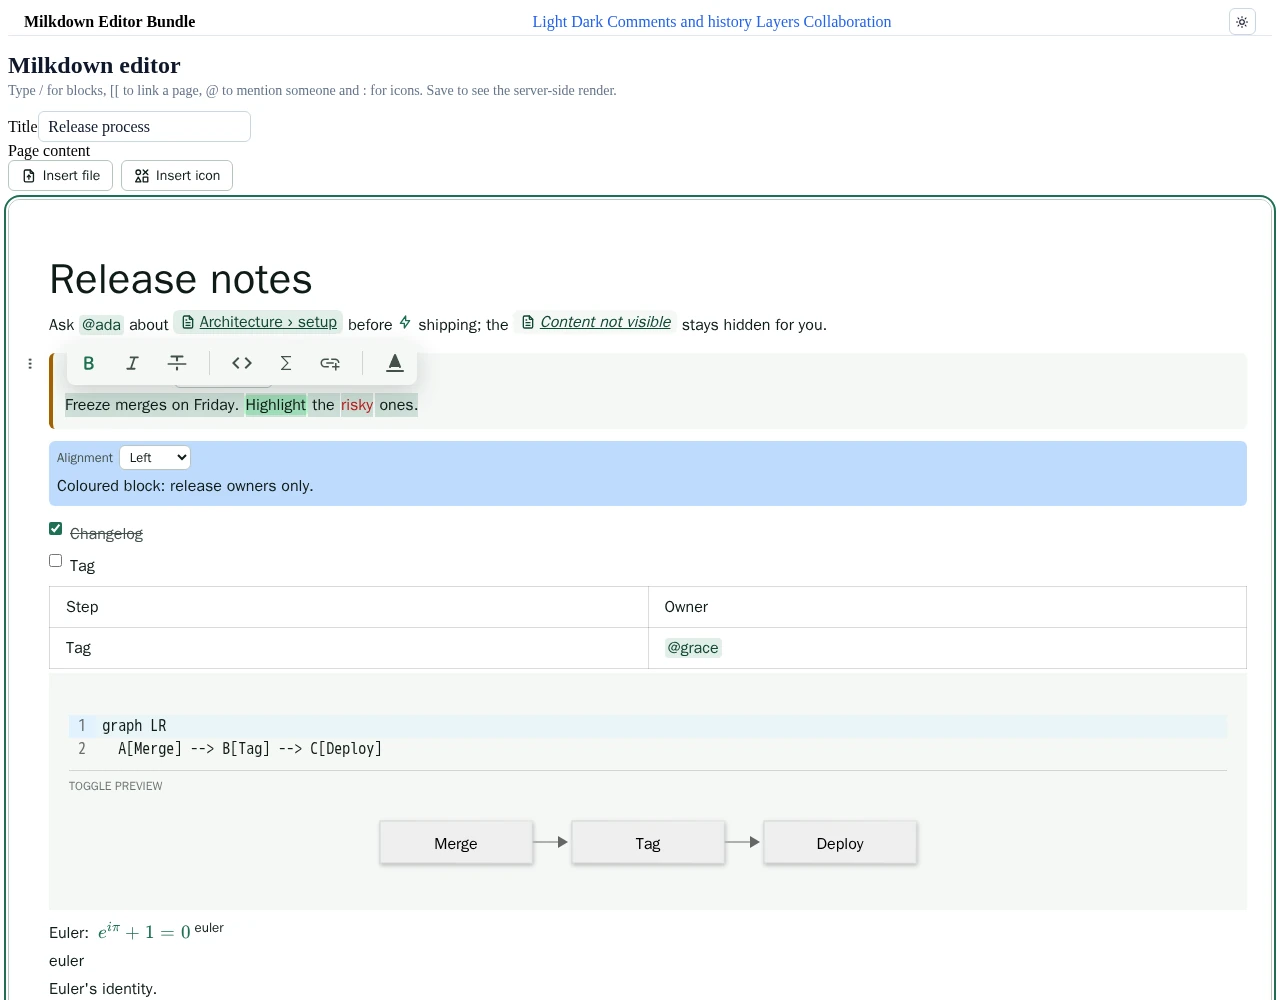
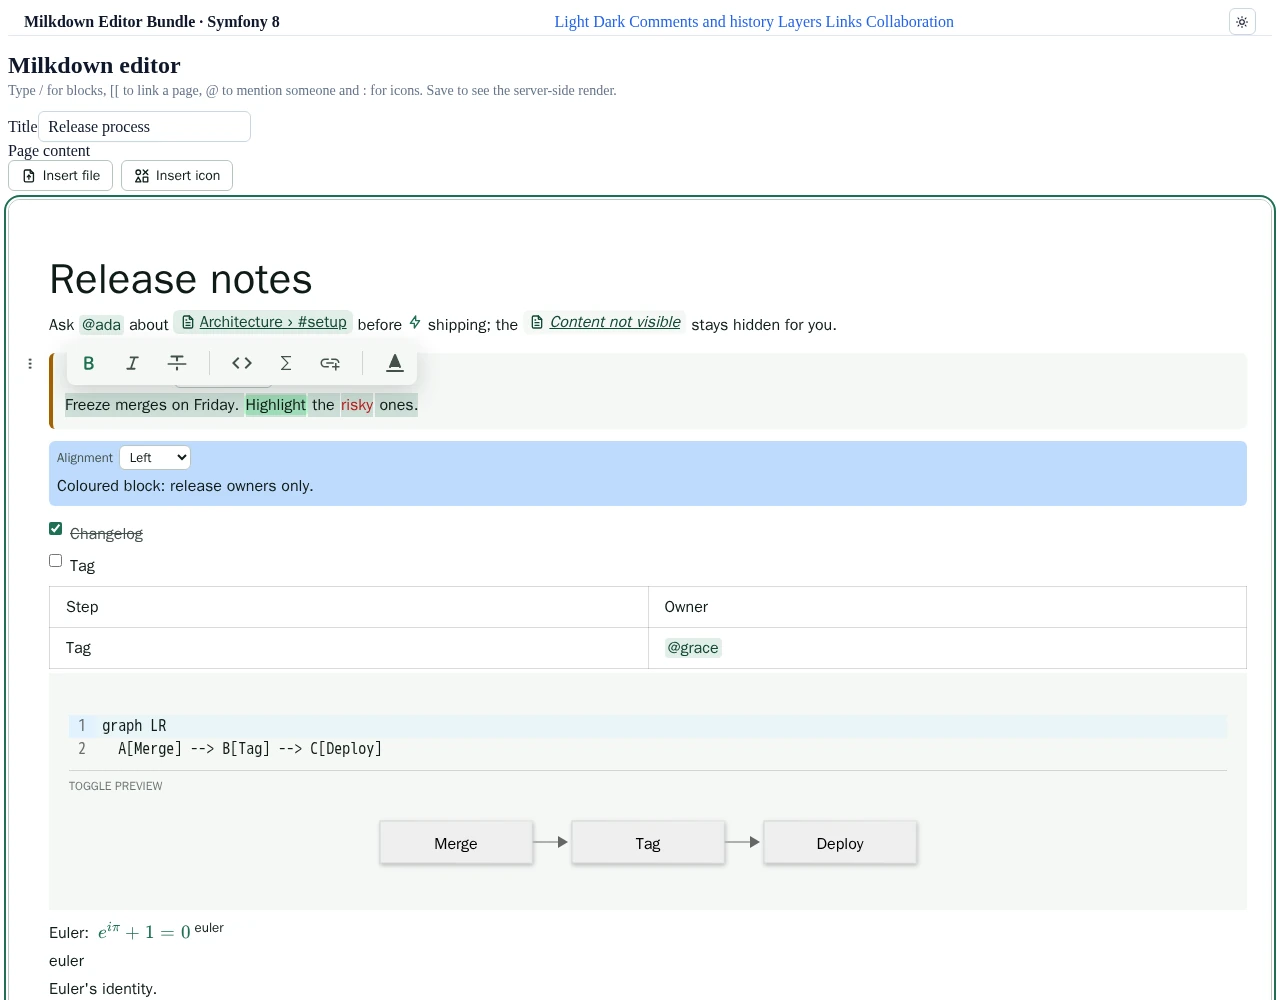
docs(demo): align demo with UiKit and FormKit (#52)

Changed region(s): [[0.2188, 0.31, 0.6562, 0.341], [0.4062, 0.0, 0.75, 0.031], [0.0312, 0.0, 0.2188, 0.031]]

diff --git a/demo/symfony8/e2e/tests/demo.spec.ts b/demo/symfony8/e2e/tests/demo.spec.ts
@@ -161,7 +161,7 @@ test.describe('Milkdown editor demo', () => {
     expect(await iconOnly.evaluate((b) => b.querySelectorAll('[style]').length + (b.hasAttribute('style') ? 1 : 0))).toBe(0);
     await iconOnly.click();
     await expect(page.locator('.nowo-milkdown-copy__status').nth(1)).toHaveText('Copied as Markdown');
-    expect(await seriousViolations(page, '.demo-preview')).toEqual([]);
+    expect(await seriousViolations(page, '[data-testid="demo-preview"]')).toEqual([]);
     expect(log.errors).toEqual([]);
   });
 
@@ -285,7 +285,7 @@ test.describe('Milkdown editor demo', () => {
   test('save: the Markdown round trip is stable and the PHP render matches the dialect', async ({ page }) => {
     await openDemo(page);
     await page.getByRole('button', { name: 'Save' }).click();
-    const first = await page.locator('.demo-source').textContent();
+    const first = await page.locator('[data-testid="demo-source"]').textContent();
     await expect(page.locator('[data-preview] .nowo-md-callout--warning')).toBeVisible();
     await expect(page.locator('[data-preview] .nowo-md-ref--hidden')).toHaveText('Content not visible');
     // 1.18: `Title › Section text` from the host's SectionResolverInterface (DemoSections), never the raw id.
@@ -300,6 +300,6 @@ test.describe('Milkdown editor demo', () => {
     // 1.3.1: the PHP render passes axe too (named task checkboxes, distinguishable footnote links).
     expect(await seriousViolations(page, '[data-preview]')).toEqual([]);
     await page.getByRole('button', { name: 'Save' }).click();
-    expect(await page.locator('.demo-source').textContent()).toBe(first);
+    expect(await page.locator('[data-testid="demo-source"]').textContent()).toBe(first);
   });
 });

diff --git a/demo/symfony8/e2e/tests/host-files.spec.ts b/demo/symfony8/e2e/tests/host-files.spec.ts
@@ -64,7 +64,7 @@ test.describe('host files (1.9, ME-5, ME-6)', () => {
     await expect(page.frameLocator('.nowo-milkdown-file__frame').locator('pre')).toContainText('<b>ada</b>');
 
     await page.getByRole('button', { name: 'Save' }).click();
-    const source = (await page.locator('.demo-source').textContent()) ?? '';
+    const source = (await page.locator('[data-testid="demo-source"]').textContent()) ?? '';
     expect(source).toMatch(/!\[pixel\]\(demo-file:[0-9a-f]{16}\.png\)/);
     expect(source).toMatch(/::file\[owners\.csv\]\{href="demo-file:[0-9a-f]{16}\.(?:csv|txt)" size="\d+" type="text\/(?:csv|plain)" view="preview"\}/);
 
@@ -103,7 +103,7 @@ test.describe('host files (1.9, ME-5, ME-6)', () => {
     expect(await seriousViolations(page, '.nowo-milkdown-image__toolbar')).toEqual([]);
 
     await page.getByRole('button', { name: 'Save' }).click();
-    const source = (await page.locator('.demo-source').textContent()) ?? '';
+    const source = (await page.locator('[data-testid="demo-source"]').textContent()) ?? '';
     expect(source).toMatch(/!\[A pixel\]\(demo-file:[0-9a-f]{16}\.png "The caption"\)\{width=50% align=center\}/);
     const figure = page.locator('[data-preview] figure.nowo-md-figure--center.nowo-md-figure--w50');
     await expect(figure.locator('figcaption')).toHaveText('The caption');

diff --git a/demo/symfony8/e2e/tests/icons.spec.ts b/demo/symfony8/e2e/tests/icons.spec.ts
@@ -169,7 +169,7 @@ test.describe('icons (1.7)', () => {
     await page.keyboard.press('Enter');
     await expect(page.getByRole('button', { name: 'Callout icon: 💡' })).toBeFocused();
     await page.getByRole('button', { name: 'Save' }).click();
-    await expect(page.locator('.demo-source')).toContainText(':::callout{icon="💡" type="warning"}');
+    await expect(page.locator('[data-testid="demo-source"]')).toContainText(':::callout{icon="💡" type="warning"}');
     const callout = page.locator('[data-preview] .nowo-md-callout--warning.nowo-md-callout--icon');
     await expect(callout.locator('> .nowo-md-callout__emoji[data-emoji="💡"][aria-hidden="true"]')).toHaveCount(1);
     // The emoji is drawn by CSS: the callout's text is only its body.

diff --git a/demo/symfony8/e2e/tests/files.spec.ts b/demo/symfony8/e2e/tests/files.spec.ts
@@ -51,7 +51,7 @@ test.describe('file drop (1.8, ME-3)', () => {
     expect(await seriousViolations(page)).toEqual([]);
 
     await page.getByRole('button', { name: 'Save' }).click();
-    const source = (await page.locator('.demo-source').textContent()) ?? '';
+    const source = (await page.locator('[data-testid="demo-source"]').textContent()) ?? '';
     expect(source).toMatch(/!\[pixel\]\(\/uploads\/[0-9a-f]{16}\.png\)/);
     expect(source).toMatch(/::file\[Q3 report\.pdf\]\{href="\/uploads\/[0-9a-f]{16}\.pdf" size="\d+" type="application\/pdf"\}/);
     // libmagic reads a small CSV as text/plain: the server's type is kept, the card is still a sheet (extension).

diff --git a/docs/CHANGELOG.md b/docs/CHANGELOG.md
@@ -36,6 +36,10 @@ All notable changes to this project are documented in this file. The format foll
 
 ## [Unreleased]
 
+### Changed
+
+- Demo: aligned with UiKit. `demo-preview` / `demo-source` are `data-testid`s instead of classes (e2e selectors updated), `demo-nav-*` test ids and the `· Symfony 8` brand and title suffix on the masthead.
+
 ## [1.18.1] - 2026-11-18
 
 ### Fixed
